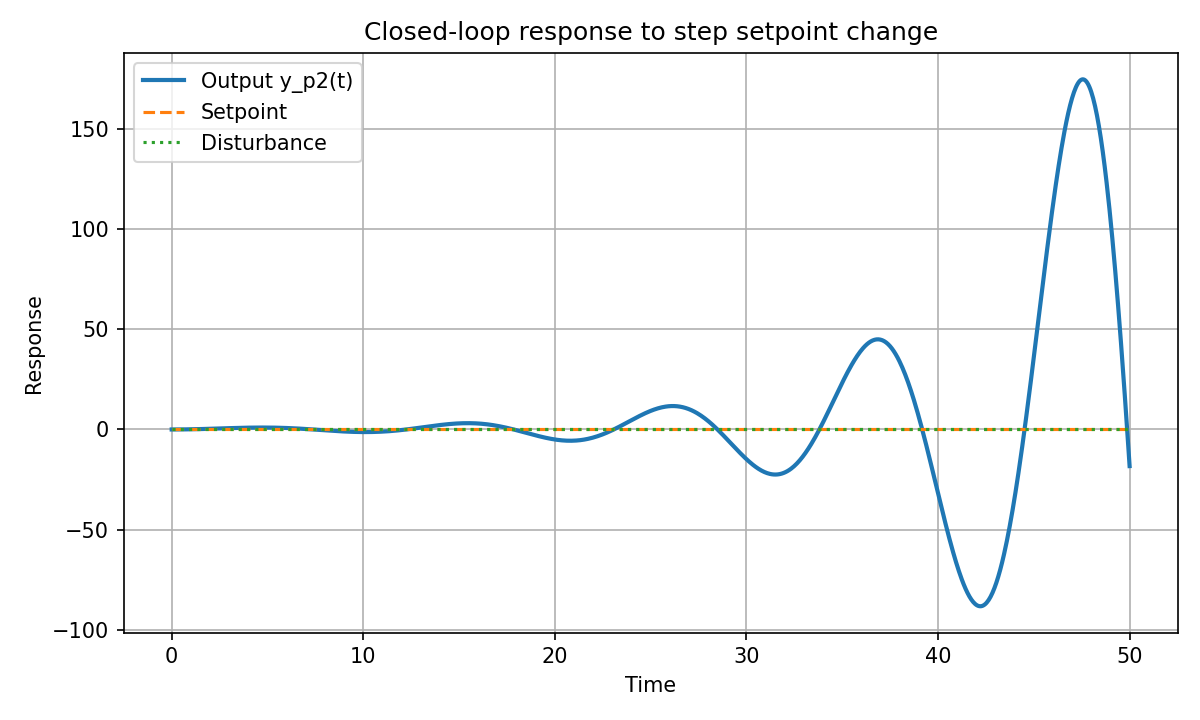
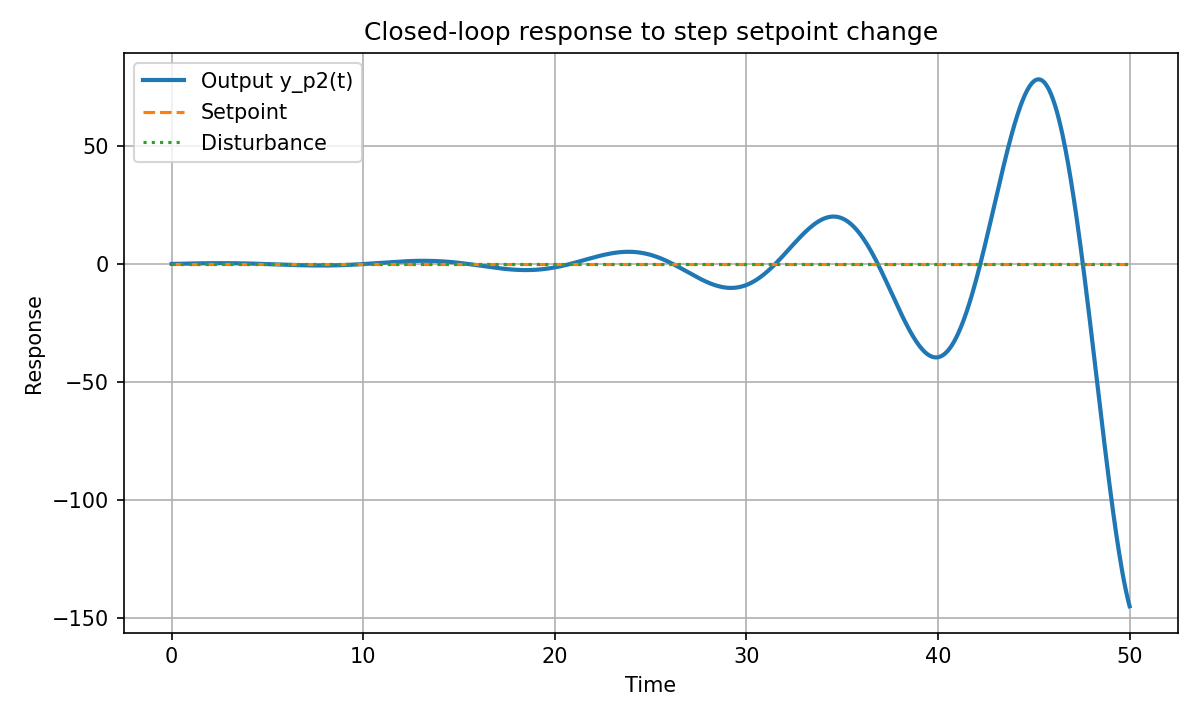
Apr 24, 2026, 3:38 PM

diff --git a/PyFunc/HW5_CHE565.py b/PyFunc/HW5_CHE565.py
@@ -10,6 +10,8 @@ from math import tau
 
 import numpy as np
 import matplotlib
+import scipy
+import scipy.integrate
 from sympy import true
 from sympy.matrices.expressions.matadd import rules
 matplotlib.use("Agg")
@@ -87,7 +89,7 @@ def build_closed_loop(Kc1, Kc2, tauI1, tauI2):
     Gc2 = Kc2 * (1 + I2 / s)
     Gp1 = Kp1 / (taup1 * s + 1)
     Gp2 = Kp2 / (taup2 * s + 1)
-    Gd = 1/s
+    Gd = 1 * (1 + 0 * s)     # direct disturbance addition
     numD,denD = ct.delay.pade(theta, pade_order)    
     # Named blocks
     Gc1_blk = ct.tf(Gc1, name='Gc1', inputs='E1', outputs='Yc1')
@@ -96,11 +98,9 @@ def build_closed_loop(Kc1, Kc2, tauI1, tauI2):
     Gp2_blk = ct.tf(Gp2, name='Gp2', inputs='P', outputs='Yp2')
     Gd_blk = ct.tf(Gd, name='Gd', inputs='D', outputs='Yd')     # direct disturbance addition
     GD_blk = ct.tf(numD, denD, name='GD', inputs='Yp2', outputs='Y')
-    print(Gd_blk)
     sum1 = ct.summing_junction(inputs=['Ysp', '-Yp2'], output='E1', name='Sum1')
     sum2 = ct.summing_junction(inputs=['Yc1'], output='E2', name='Sum2')
     sum3 = ct.summing_junction(inputs=['Yp1', 'Yd'], output='P', name='Sum3')
-
     sys = ct.interconnect(
         [Gc1_blk, Gc2_blk, Gp1_blk, Gp2_blk, Gd_blk, sum1, sum2, sum3],
         input=['Ysp', 'D'],
@@ -110,6 +110,11 @@ def build_closed_loop(Kc1, Kc2, tauI1, tauI2):
     )
     print(sys)
     return sys
+
+def calculate_IAE(t, y, ysp):
+    error = ysp - y
+    iae = scipy.integrate.trapezoid(np.abs(error), t)
+    return iae
 
 # ---------------------------
 # Simulation helper
@@ -140,6 +145,8 @@ def save_plot(filename, t, y, title, ysp=None, d=None):
 
 sys1 = build_closed_loop(Kc1, Kc2, tauI1, tauI2)
 t1, y1 = simulate_case(sys1, tvals, step_off, step_on)
+iae1 = calculate_IAE(t1, y1, step_off)
+print(f"Case 1: Step disturbance, no setpoint change → IAE = {iae1:.4f}")
 save_plot("closed_loop_no_cascade.png", t1, y1, "Closed-loop response to step setpoint change", ysp=step_off, d=step_off)
 doc.subsection("Closed-loop response to step disturbance")
 figlog("closed_loop_no_cascade.png",
